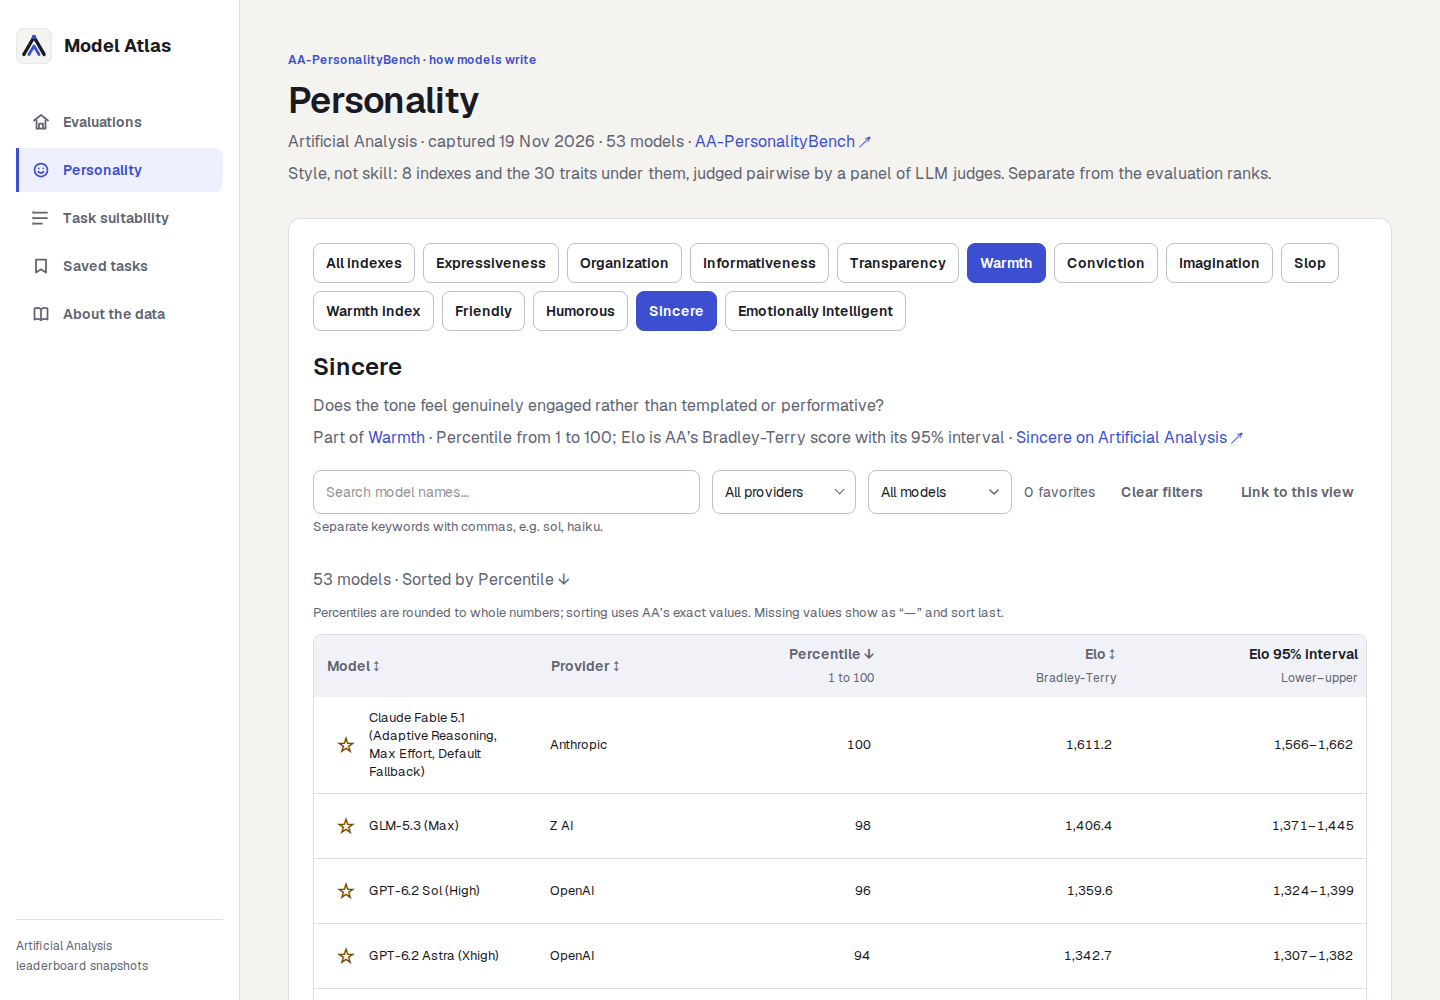
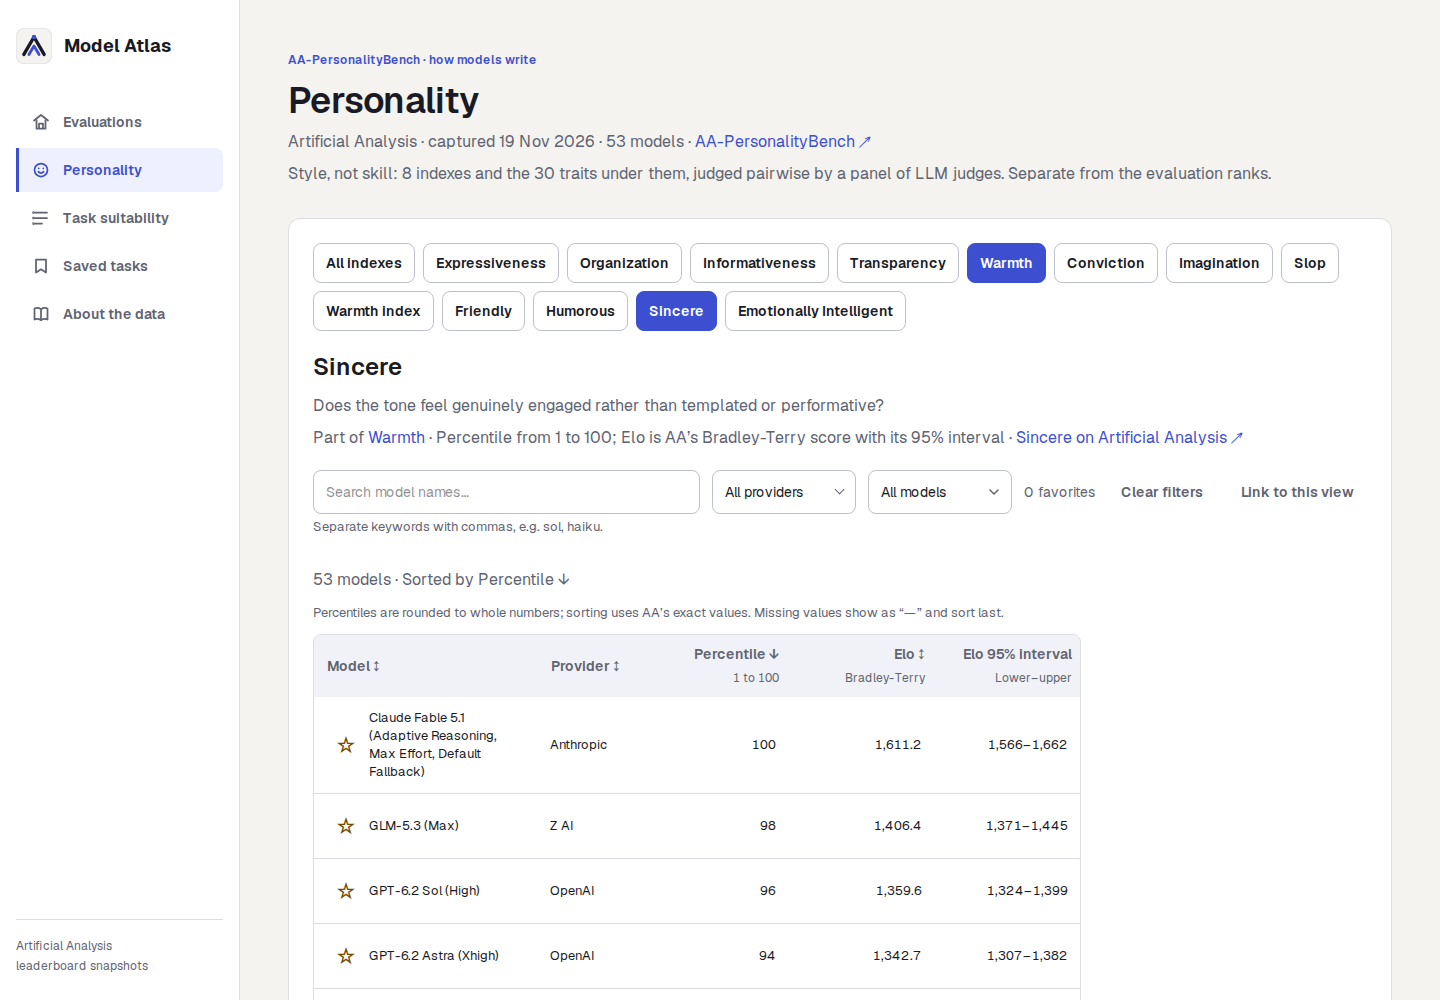
fix: refine Personality trait tables after visual review

diff --git a/src/components/personality-leaderboard.tsx b/src/components/personality-leaderboard.tsx
@@ -59,7 +59,12 @@ function LevelNotes({dataset,level,levelHref}:{dataset:PersonalityDataset;level:
   </>;
   if(level.kind==="index") return <>
     <p>{level.index.description}. The index is the mean of its {level.index.traits.length} traits, as a percentile from 1 to 100 · {level.index.question_count} questions.</p>
-    <dl className="personality-definitions" style={{"--personality-definition-columns":Math.min(5,level.index.traits.length)} as CSSProperties}>{level.index.traits.map(trait=><div key={trait.key}><dt>{trait.label}{trait.lower_is_better?" · ↓ lower is better":""}</dt><dd>{trait.definition}</dd></div>)}</dl>
+    <dl className="personality-definitions" style={{"--personality-definition-columns":Math.min(5,level.index.traits.length)} as CSSProperties}>
+      {level.index.traits.map(trait=><div key={trait.key}>
+        <dt>{trait.label}</dt>
+        <dd>{trait.definition}{trait.lower_is_better&&<> <span className="personality-definition-direction">↓ lower is better.</span></>}</dd>
+      </div>)}
+    </dl>
   </>;
   return <>
     <p>{level.trait.definition}{level.trait.lower_is_better?" ↓ lower is better.":""}</p>

diff --git a/src/app/globals.css b/src/app/globals.css
@@ -2176,12 +2176,24 @@ a.ui-button:hover {
   color: var(--text-secondary);
 }
 
+.personality-definition-direction {
+  white-space: nowrap;
+}
+
 /* From 1280px the score columns share the width left beside the pinned columns, so no level scrolls sideways.
    Below that the table scrolls under the pinned model column, like the master. */
 @media (min-width: 1280px) {
   .personality table {
     width: 100%;
     table-layout: fixed;
+  }
+
+  .personality--trait :is(.table-scroll-frame, .ui-pagination) {
+    max-width: 48rem;
+  }
+
+  .personality--trait th.numeric small {
+    text-wrap: balance;
   }
 }
 
@@ -2213,6 +2225,7 @@ a.ui-button:hover {
 .personality-static-header {
   display: block;
   padding: var(--space-2) var(--space-2) var(--space-2) var(--space-1);
+  color: var(--text-secondary);
   font-size: var(--font-size-ui);
   line-height: var(--line-height-ui);
   text-align: right;

diff --git a/docs/IMPLEMENTATION_PLAN.md b/docs/IMPLEMENTATION_PLAN.md
@@ -110,6 +110,6 @@ file and read at build time, the way the speed data is. Nothing else on the site
 |---|---|---|---|---|
 | 1.1 | **Capture, import and inventory** [no look]. Add `scripts/capture-aa-personalitybench.mjs` (run like the evaluation capture, `PLAYWRIGHT_MODULE=…`): open the page, select every model with the selector logic of `scripts/capture-aa-evaluations.mjs` (export and reuse its helpers, don't copy them), then read every model's `judged` record and `creator`, the labels, index descriptions and trait lists, question counts and trait definitions from the page's payload, and write `data/aa-captures/aa-personalitybench.json` with `captured_at`. It throws, naming the page, when the selector isn't "M of M" or the records found aren't M. Add `scripts/import-aa-personalitybench.ts` (`npm run import:aa-personalitybench`) that writes `data/aa-personalitybench.json`: `captured_at`, the source URL, the 8 indexes in AA's order, each with label, description, question count and its traits (key, label, definition, lower-is-better flag, AA trait URL); and per model its name, provider, identity key, 8 index percentiles, and per trait percentile, Elo and Elo interval (`null` where AA has none). Put the types and the loader in `src/lib/personality.ts`. Add `tests/aa-personalitybench-import.test.ts`. Write `docs/AA_PERSONALITYBENCH_CAPTURE.md`: each AA model, the name and provider it gets, whether a master row matches, and any missing values. Add the refresh steps to `docs/DATA_DICTIONARY.md`. Read: "What AA publishes" and Decisions above; "Ordering and ingestion" in `docs/DATA_DICTIONARY.md`. **Done when**: the capture holds as many models as the selector counts (53 on 2026-11-19); the file has 8 indexes and 30 traits, each under the index listed above; a test changing one trait in a fake payload's index card makes the import throw; all identity keys are unique and a test with two models sharing one makes the import throw; the Fable 5.2, GPT-6.2 Astra and GPT-6.2 Sol rows have the same identity keys as their master rows; every value is 1–100 (percentiles) or inside its interval (Elo), or `null`; a second import changes no file; a forced selector failure throws naming the page; `git status` shows no change to `data/leaderboards.json` or the other captures; `tsc` and the new test pass. | Sol Max | New scrape and import that feed a page: FrontierCode 9, Terminal Bench 9 | 2026-11-19 · 53 models, 8 indexes, 30 traits, repeat import verified |
 | 1.2 | **The Personality page** [look]. Build `/personality` (`src/app/personality/page.tsx`, `src/components/personality-leaderboard.tsx`, the level, sort and URL logic in `src/lib/personality.ts`) as the design at the top and Decisions describe, with the master leaderboard's search, provider filter, favorites filter, sortable headers, pagination and pinned model column. Add the nav item, the home card and the `/about/data` paragraph. Add `tests/personality.test.ts`: every URL case in Decisions, the default sorts (Slop and Sycophantic lowest first), a fixture with a `null` value sorting last both ways, and level changes resetting page and sort. Then run the app (dev server, stopped by its PID) and take shots to `docs/screenshots/personality/build/`. Read first: `src/components/master-leaderboard.tsx`, `src/app/page.tsx`, `src/components/app-shell.tsx`, the master's rules in `src/app/globals.css`, and the UI rule in `AGENTS.md`. **Done when** the shots show: at 1440px, All indexes with Model, Provider and all 8 index columns without sideways scrolling and "↓ lower is better" on Slop; Warmth with the Warmth column then Friendly, Humorous, Sincere, Emotionally Intelligent and their definitions; Transparency (the widest: 5 traits) with Sycophantic marked lower is better and every header on at most two lines; Conviction with "Constructive Pushback" readable; Sincere with Percentile, Elo, the interval, its definition, "Part of Warmth" and AA's link; Slop opening its trait view; Imagination with only Creative and Open-Ended; the master leaderboard and Warmth at 1440px shot one after the other with the same table header, chip, button and spacing style; at 390px, All indexes, Transparency and Sincere with the model column pinned, at least two score columns beside it, the table starting on the first screen, the chips in one scrolling row, and no sideways page scroll; the home page at 1440px and 390px with the new card, and `/suitability` at 390px with the nav drawer open showing Personality. Also: reloading `/personality?index=warmth&trait=sincere&q=claude` restores that view; the tests and `tsc` pass. | Opus 5.5 High | First page of a new kind that sets its look (Presentation 28, Analytical Elo 10) | 2026-11-19 · 3 levels, 13 URL/sort tests, shots in `build/` |
-| 1.3 | **Browser check** [look]. Production build, `next start` through the node `next` bin, stopped by its PID (memory `next-start-pid`). Add `scripts/check-personality-browser.mjs`, modelled on `scripts/check-evaluation-browser.mjs`, and run it with `scripts/check-master-browser.mjs` (its expectations unedited). Shots go to `docs/screenshots/personality/`. **Done when**: both scripts pass; the count line on All indexes, Warmth and Sincere says the number of models in 1.1's doc; clicking the Sincere header sorts highest first, then lowest first, and the Slop header lowest first by default; search "claude" with the Anthropic provider filter shows only Anthropic rows and survives a reload; a model starred on the master page shows when "Favorites only" is picked on `/personality`, and an unstarred one doesn't; "No models match these filters." shows for a search with no hits; the nav item is marked current on `/personality`; the home card's link opens it; shots at 1440px and 390px of All indexes, Transparency and Sincere. | Sol High | Build, server, browser and shots: Terminal Bench 17 for $0.56 | 2026-11-19 · 53 models, both browser checks passed, six shots at 1440px and 390px |
+| 1.3 | **Browser check** [look]. Production build, `next start` through the node `next` bin, stopped by its PID (memory `next-start-pid`). Add `scripts/check-personality-browser.mjs`, modelled on `scripts/check-evaluation-browser.mjs`, and run it with `scripts/check-master-browser.mjs` (its expectations unedited). Shots go to `docs/screenshots/personality/`. **Done when**: both scripts pass; the count line on All indexes, Warmth and Sincere says the number of models in 1.1's doc; clicking the Sincere header sorts highest first, then lowest first, and the Slop header lowest first by default; search "claude" with the Anthropic provider filter shows only Anthropic rows and survives a reload; a model starred on the master page shows when "Favorites only" is picked on `/personality`, and an unstarred one doesn't; "No models match these filters." shows for a search with no hits; the nav item is marked current on `/personality`; the home card's link opens it; shots at 1440px and 390px of All indexes, Transparency and Sincere. | Sol High | Build, server, browser and shots: Terminal Bench 17 for $0.56 | 2026-11-19 · 53 models, both browser checks passed, 12 shots at 1440px and 390px after visual review |
 | R1 | **Phase 1 review**: the diff from `main`, 1.1's doc against the capture, and the 1.2 and 1.3 shots. Quick fixes only; the rest become fix rows under this one. **Done when**: five models' Sincere, Warmth and Slop values on live AA (two Claude, two GPT-6.2, one other) match the page; every FINDING is fixed or has a fix row; if a fix touched data or the page, 1.3's checks run again and pass. | Opus 5.5 High | Other family from most of the build (1.1 and 1.3 are Sol) | |
 | O1 | *owner*: release with `git push origin personality-bench:main` (no `publish:data` needed: the data ships with the deploy). On the live site, open `/personality`, open Warmth, then Sincere. | — | — | |

diff --git a/docs/approved-looks.md b/docs/approved-looks.md
@@ -9,4 +9,5 @@
 - Intelligence Index scores intentionally use four decimal places with tabular figures, as recorded in the November screenshot review.
 - Personality chip rows on a phone are one line each that scrolls sideways; chips cut at the card's edges are how that scroll shows (the plan's design).
 - On a phone, a Personality table can show a sliver of the next score column at its right edge; the "More columns →" cue above it says the table scrolls.
+- The Personality trait table's Elo 95% interval header has no sort arrow. The interval is informational and uses the same muted header text as the sortable columns.
 - 1440px and 390px captures are one screen tall, so the bottom edge can cut through a table row, a header date or a card; the page continues below.
